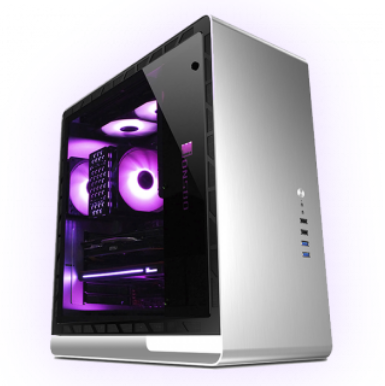
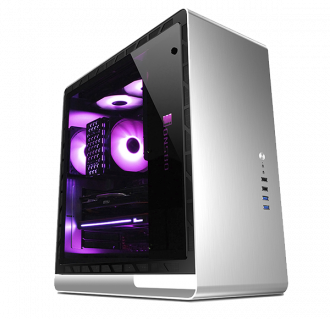
light

Changed region(s): [[0.1212, 0.0282, 0.8788, 0.9592], [0.4242, 0.7618, 0.4545, 0.79]]

diff --git a/sass/_gamingPC.scss b/sass/_gamingPC.scss
@@ -85,6 +85,10 @@
             object-fit: contain;
         }
 
+        &:nth-of-type(2) img {
+            filter: drop-shadow(0 0 35px rgb(220, 118, 255));
+        }
+
         &:nth-of-type(3) img {
             filter: drop-shadow(0 0 35px rgb(0, 64, 255));
         }
